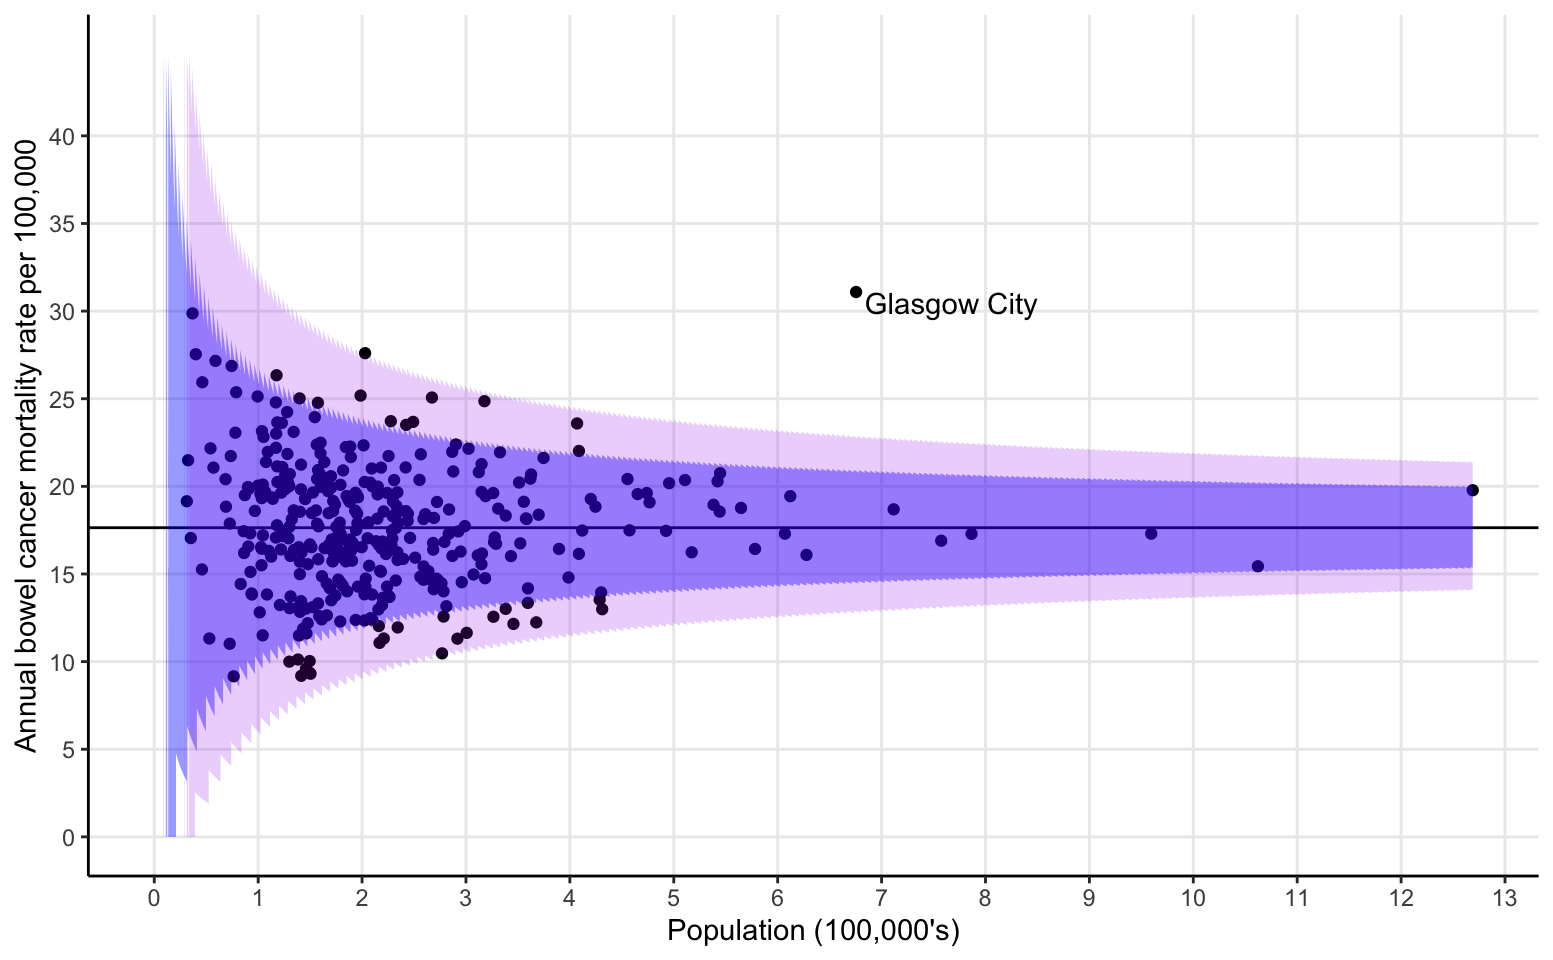
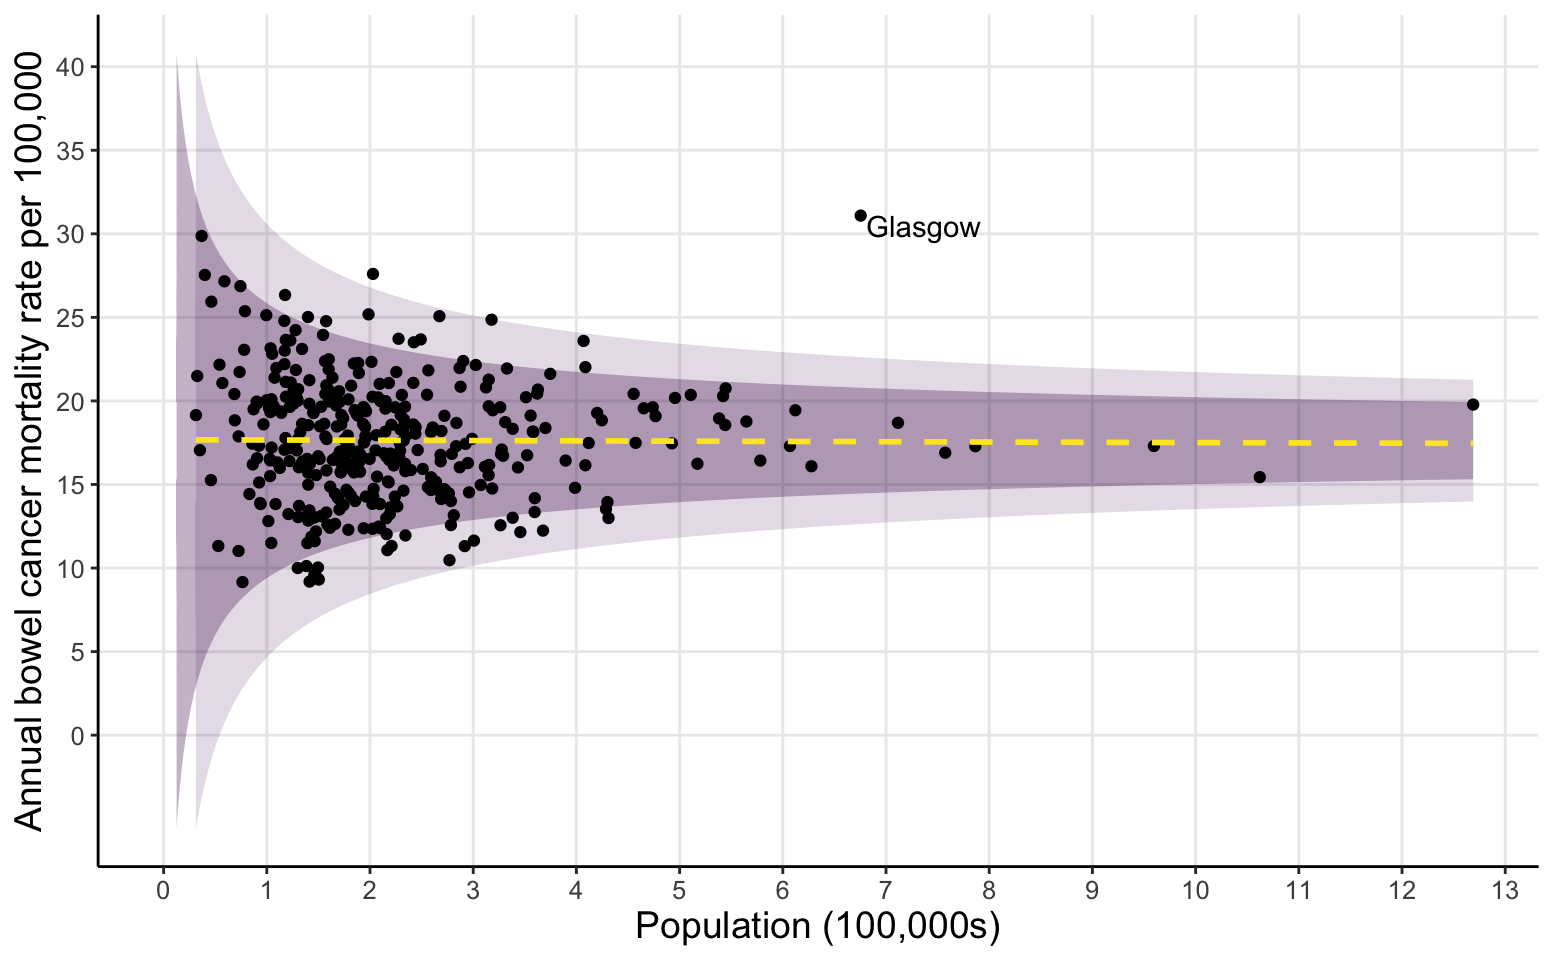
2nd draft

diff --git a/public/posts/slow_thinking_small_samples/index.html b/public/posts/slow_thinking_small_samples/index.html
@@ -110,7 +110,7 @@
             </span>
             <span class="reading-time">
               <i class="fas fa-clock"></i>
-              6 minutes read
+              7 minutes read
             </span>
           </div>
           
@@ -152,9 +152,9 @@ div#TOC li {
 <blockquote>
 <p>Counties that are in the highest 10% for kidney cancer incidence tend to be rural and located in the Midwest, the South, and the West.</p>
 </blockquote>
-<p>Again, you might have been tempted to appeal to the rural lifestyle for an explanation. But this time, to suggest that the high cancer rates might be due to “limited access to good medical care, a high-fat diet, too much alcohol, and too much tobacco.”</p>
+<p>Again, you might have been tempted to appeal to the rural lifestyle for an explanation. But, this time, to suggest that the high cancer rates might be due to “limited access to good medical care, a high-fat diet, too much alcohol, and too much tobacco.”</p>
 <p>Clearly, something is off with our gut instinct here. The rural lifestyle can’t simultaneously explain both high and low incidence of kidney cancer.</p>
-<p>This pair of facts illustrate the concept of <strong>sample size neglect</strong>, a failure to acccurately account for sample size when making inferences from data. This failing stems from the representativeness heuristic. It manifests when people don’t know the process by which the data is being generated (in this case what causes high or low rates of kidney cancer). The outcome is that people tend to believe a small sample will be more representative of the true phenomenon than statistical theory predicts it actually will be.</p>
+<p>This pair of facts illustrate the concept of <strong>sample size neglect</strong>, a failure to acccurately account for sample size when making inferences from data. The outcome is that people tend to believe a small sample will be more representative of the true phenomenon than statistical theory predicts it actually will be.</p>
 <p>So, the key here isn’t the <em>behaviour</em> of people who live in rural areas, it’s the <em>number</em> of people who live in rural areas.</p>
 <div id="small-samples-are-more-extreme" class="section level1">
 <h1><span class="header-section-number">1</span> Small samples are more extreme</h1>
@@ -172,23 +172,22 @@ L&amp;\sim \text{B}(8, 0.5)
 <p>If that was too much maths, then we can run a simulation to get an approximate answer instead. Let’s simulate 1000 days at each hospital and plot the frequencies of the number of boys born per day.</p>
 <p><img src="/posts/slow_thinking_small_samples_files/figure-html/unnamed-chunk-2-1.png" width="776.64" style="display: block; margin: auto;" /></p>
 <p>Adding up the yellow bars shows us that there were 132 single-sex days at Hospital Small and only 9 at Hospital Large. This means that single-sex days occurred roughly 15 times as often at Hospital Small, which isn’t too far away from the exact answer of 16.</p>
-<p>So, we’ve established that a smaller sample size (4 rather than 8 in our example) generates extreme results (single-sex days) more often than we naturally expect. This means our fast thinking can lead us astray a little and many of us tend to underestimate just how variable small samples will be. What can we do about it? How can we remind ourselves that we should expect small samples to be more extreme when analysing data?</p>
+<p>So, we’ve established that a smaller sample size (4 rather than 8 in our example) generates extreme results (single-sex days) more often than we might naturally expect. This means our fast thinking can lead us astray a little and many of us tend to underestimate just how variable small samples will be. What can we do about it? How can we remind ourselves that we should expect small samples to be more extreme when analysing data?</p>
 </div>
 <div id="visualise-the-expected-variance" class="section level1">
 <h1><span class="header-section-number">2</span> Visualise the expected variance</h1>
 <p>I recently came across an example from the UK in a similar vein to the one discussed by Wainer and Zwerling. In <em>The Art of Statistics</em> David Spiegelhalter discusses a piece of analysis by Paul Barden. Barden saw a BBC news report headlined “3-Fold Variation in Bowel Cancer Rate” and decided to dig a little deeper (discussed on his own blog <a href="https://pb204.blogspot.com/2011/09/im-grateful-to-david-spiegelhalter-of.html">here</a>).</p>
 <p>It turns out the headline is true. In fact, there’s more than 3-fold variation. The highest mortality rate of 31 in 100,000 in Glasgow is 3.39 times that of the minimum rate found in The Borough of Rossendale.</p>
-<p>But, as we established above, small samples generate extreme results more often. So, we need to incorporate population size in our analysis. The easiest way to do this is with a ‘funnel plot’ which visualises the mean and expected variation from this mean given sample size.</p>
+<p>But, as we established above, small samples generate extreme results more often. So, we need to incorporate the idea that the cancer rate will be more variable in areas with smaller population sizes in our analysis. The easiest way to do this is with a ‘funnel plot’ which visualises the expected variation at each sample size given the overall population mean.</p>
 <p><img src="/posts/slow_thinking_small_samples_files/figure-html/unnamed-chunk-5-1.png" width="776.64" style="display: block; margin: auto;" /></p>
-<p>Sentence interpreting graph.</p>
-<p>We have a suspiciously good match to the expected variability with the vast majority of our datapoints falling within the bounds of the confidence intervals (Glasgow is the only apparent outlier). This suggests that there likely isn’t anything more interesting going on in general than in our simulation of the two hospitals above. Perhaps the headline should’ve instead read, “Variation in Bowel Cancer Rate About Right”.</p>
+<p>The dashed yellow line represents a simple linear model of cancer rate as a function of population size. The fact that it’s virtually horizontal suggests there’s no relationship. The dark and light purple bands represent 95% and 99.8% confidence intervals respectively. They visualise the variation we expect at each population size simply as a statistical inevitability. We can see that the vast majority of the datapoints fall within these bounds, with Glasgow being the only true outlier. Taken together, this suggests that there likely isn’t anything more interesting going on here than in our simulation of the two hospitals above. Perhaps the headline should’ve instead read, “Variation in Bowel Cancer Rate About Right”.</p>
 </div>
 <div id="stats-as-slow-thinking" class="section level1">
 <h1><span class="header-section-number">3</span> Stats as slow thinking</h1>
 <p>The metaphor of two modes of thinking, one fast and intuitive but prone to some predictable mistakes and the other slow and deliberate but sometimes hard to engage, has become fairly mainstream since Kahneman’s <em>Thinking, Fast and Slow</em> and the popularisation of behavioural economics. This metaphor is often used when discussing the ‘mistakes’ people are susceptible to. However, accepting the fallibility of our own reasoning is just the start of good decision-making, not an end in itself.</p>
-<p>The next step is to consider just what kind of slow thinking we should employ in a given situation.The simplest option might be a pros and cons list, or we could use an improper linear model if we want to get a little more sophisticated. However, often the slow thinking required is formal statistical analysis.</p>
-<p>This is where my interest in behavioural economics meets my interest in data science. To me, data science can be cast as painfully slow thought involving taking the right care to clean and format the data, choosing an appropriate method, checking statistical assumptions, testing the sensitivity of your results, and ensuring you aren’t deluding yourself with your interpretation.</p>
-<p>Particularly when making large scale policy decisions, engaging in such painfully slow thinking is crucial. If you don’t, then you run the risk of misattributing run-of-the-mill statistical variation to an incorrect, but compelling, narrative like the wonders (or horrors) of the rural lifestyle. For example, Bill &amp; Melinda Gates Foundation example of it gone wrong.</p>
+<p>The next step is to consider just what kind of slow thinking we should employ in a given situation. The simplest option might be a pros and cons list, or we could use an improper linear model if we want to get a little more fancy. Often, however, these won’t suffice and the slow thinking required is formal statistical analysis.</p>
+<p>This is where my interest in behavioural economics meets my interest in data science. To me, a useful way of framing the role of data science is as painfully slow thinking. It requires taking the right care to clean and format the data, choosing an appropriate method, checking the assumptions are valid, testing the sensitivity of your results, and ensuring you aren’t deluding yourself with your interpretation.</p>
+<p>Particularly when making large scale policy decisions, engaging in such painfully slow thinking is crucial. If you don’t, then you run the risk of misattributing run-of-the-mill statistical variation to an incorrect, but compelling, narrative like the wonders (and horrors) of the rural lifestyle. For example, the Wainer and Zwerling article I began this post with focused on a $1.7 billion investment by the Bill &amp; Melinda Gates foundation made to follow up on research on what makes schools successful. One apparent finding in such research is that amongst the most successful schools, small schools are overrepresented. This led the foundation along with the U.S Department of Education Smaller Learning Communities Program to make substantial investment in the creation of smaller schools. It’s easy to construct a compelling narrative to explain why small schools cause better educational outcomes, perhaps appealing to there being more personal attention or individual encouragement for each student. However, as Wainer and Zwerling point out, small schools are also overrepresented when you look at the worst schools. Why? Because, please remember this mantra if you ever get an important job that affects millions of people’s lives, small samples produce extreme results more often.</p>
 </div>
 
       </div>

diff --git a/content/posts/slow_thinking_small_samples.html b/content/posts/slow_thinking_small_samples.html
@@ -40,9 +40,9 @@ div#TOC li {
 <blockquote>
 <p>Counties that are in the highest 10% for kidney cancer incidence tend to be rural and located in the Midwest, the South, and the West.</p>
 </blockquote>
-<p>Again, you might have been tempted to appeal to the rural lifestyle for an explanation. But this time, to suggest that the high cancer rates might be due to “limited access to good medical care, a high-fat diet, too much alcohol, and too much tobacco.”</p>
+<p>Again, you might have been tempted to appeal to the rural lifestyle for an explanation. But, this time, to suggest that the high cancer rates might be due to “limited access to good medical care, a high-fat diet, too much alcohol, and too much tobacco.”</p>
 <p>Clearly, something is off with our gut instinct here. The rural lifestyle can’t simultaneously explain both high and low incidence of kidney cancer.</p>
-<p>This pair of facts illustrate the concept of <strong>sample size neglect</strong>, a failure to acccurately account for sample size when making inferences from data. This failing stems from the representativeness heuristic. It manifests when people don’t know the process by which the data is being generated (in this case what causes high or low rates of kidney cancer). The outcome is that people tend to believe a small sample will be more representative of the true phenomenon than statistical theory predicts it actually will be.</p>
+<p>This pair of facts illustrate the concept of <strong>sample size neglect</strong>, a failure to acccurately account for sample size when making inferences from data. The outcome is that people tend to believe a small sample will be more representative of the true phenomenon than statistical theory predicts it actually will be.</p>
 <p>So, the key here isn’t the <em>behaviour</em> of people who live in rural areas, it’s the <em>number</em> of people who live in rural areas.</p>
 <div id="small-samples-are-more-extreme" class="section level1">
 <h1><span class="header-section-number">1</span> Small samples are more extreme</h1>
@@ -60,21 +60,20 @@ L&amp;\sim \text{B}(8, 0.5)
 <p>If that was too much maths, then we can run a simulation to get an approximate answer instead. Let’s simulate 1000 days at each hospital and plot the frequencies of the number of boys born per day.</p>
 <p><img src="/posts/slow_thinking_small_samples_files/figure-html/unnamed-chunk-2-1.png" width="776.64" style="display: block; margin: auto;" /></p>
 <p>Adding up the yellow bars shows us that there were 132 single-sex days at Hospital Small and only 9 at Hospital Large. This means that single-sex days occurred roughly 15 times as often at Hospital Small, which isn’t too far away from the exact answer of 16.</p>
-<p>So, we’ve established that a smaller sample size (4 rather than 8 in our example) generates extreme results (single-sex days) more often than we naturally expect. This means our fast thinking can lead us astray a little and many of us tend to underestimate just how variable small samples will be. What can we do about it? How can we remind ourselves that we should expect small samples to be more extreme when analysing data?</p>
+<p>So, we’ve established that a smaller sample size (4 rather than 8 in our example) generates extreme results (single-sex days) more often than we might naturally expect. This means our fast thinking can lead us astray a little and many of us tend to underestimate just how variable small samples will be. What can we do about it? How can we remind ourselves that we should expect small samples to be more extreme when analysing data?</p>
 </div>
 <div id="visualise-the-expected-variance" class="section level1">
 <h1><span class="header-section-number">2</span> Visualise the expected variance</h1>
 <p>I recently came across an example from the UK in a similar vein to the one discussed by Wainer and Zwerling. In <em>The Art of Statistics</em> David Spiegelhalter discusses a piece of analysis by Paul Barden. Barden saw a BBC news report headlined “3-Fold Variation in Bowel Cancer Rate” and decided to dig a little deeper (discussed on his own blog <a href="https://pb204.blogspot.com/2011/09/im-grateful-to-david-spiegelhalter-of.html">here</a>).</p>
 <p>It turns out the headline is true. In fact, there’s more than 3-fold variation. The highest mortality rate of 31 in 100,000 in Glasgow is 3.39 times that of the minimum rate found in The Borough of Rossendale.</p>
-<p>But, as we established above, small samples generate extreme results more often. So, we need to incorporate population size in our analysis. The easiest way to do this is with a ‘funnel plot’ which visualises the mean and expected variation from this mean given sample size.</p>
+<p>But, as we established above, small samples generate extreme results more often. So, we need to incorporate the idea that the cancer rate will be more variable in areas with smaller population sizes in our analysis. The easiest way to do this is with a ‘funnel plot’ which visualises the expected variation at each sample size given the overall population mean.</p>
 <p><img src="/posts/slow_thinking_small_samples_files/figure-html/unnamed-chunk-5-1.png" width="776.64" style="display: block; margin: auto;" /></p>
-<p>Sentence interpreting graph.</p>
-<p>We have a suspiciously good match to the expected variability with the vast majority of our datapoints falling within the bounds of the confidence intervals (Glasgow is the only apparent outlier). This suggests that there likely isn’t anything more interesting going on in general than in our simulation of the two hospitals above. Perhaps the headline should’ve instead read, “Variation in Bowel Cancer Rate About Right”.</p>
+<p>The dashed yellow line represents a simple linear model of cancer rate as a function of population size. The fact that it’s virtually horizontal suggests there’s no relationship. The dark and light purple bands represent 95% and 99.8% confidence intervals respectively. They visualise the variation we expect at each population size simply as a statistical inevitability. We can see that the vast majority of the datapoints fall within these bounds, with Glasgow being the only true outlier. Taken together, this suggests that there likely isn’t anything more interesting going on here than in our simulation of the two hospitals above. Perhaps the headline should’ve instead read, “Variation in Bowel Cancer Rate About Right”.</p>
 </div>
 <div id="stats-as-slow-thinking" class="section level1">
 <h1><span class="header-section-number">3</span> Stats as slow thinking</h1>
 <p>The metaphor of two modes of thinking, one fast and intuitive but prone to some predictable mistakes and the other slow and deliberate but sometimes hard to engage, has become fairly mainstream since Kahneman’s <em>Thinking, Fast and Slow</em> and the popularisation of behavioural economics. This metaphor is often used when discussing the ‘mistakes’ people are susceptible to. However, accepting the fallibility of our own reasoning is just the start of good decision-making, not an end in itself.</p>
-<p>The next step is to consider just what kind of slow thinking we should employ in a given situation.The simplest option might be a pros and cons list, or we could use an improper linear model if we want to get a little more sophisticated. However, often the slow thinking required is formal statistical analysis.</p>
-<p>This is where my interest in behavioural economics meets my interest in data science. To me, data science can be cast as painfully slow thought involving taking the right care to clean and format the data, choosing an appropriate method, checking statistical assumptions, testing the sensitivity of your results, and ensuring you aren’t deluding yourself with your interpretation.</p>
-<p>Particularly when making large scale policy decisions, engaging in such painfully slow thinking is crucial. If you don’t, then you run the risk of misattributing run-of-the-mill statistical variation to an incorrect, but compelling, narrative like the wonders (or horrors) of the rural lifestyle. For example, Bill &amp; Melinda Gates Foundation example of it gone wrong.</p>
+<p>The next step is to consider just what kind of slow thinking we should employ in a given situation. The simplest option might be a pros and cons list, or we could use an improper linear model if we want to get a little more fancy. Often, however, these won’t suffice and the slow thinking required is formal statistical analysis.</p>
+<p>This is where my interest in behavioural economics meets my interest in data science. To me, a useful way of framing the role of data science is as painfully slow thinking. It requires taking the right care to clean and format the data, choosing an appropriate method, checking the assumptions are valid, testing the sensitivity of your results, and ensuring you aren’t deluding yourself with your interpretation.</p>
+<p>Particularly when making large scale policy decisions, engaging in such painfully slow thinking is crucial. If you don’t, then you run the risk of misattributing run-of-the-mill statistical variation to an incorrect, but compelling, narrative like the wonders (and horrors) of the rural lifestyle. For example, the Wainer and Zwerling article I began this post with focused on a $1.7 billion investment by the Bill &amp; Melinda Gates foundation made to follow up on research on what makes schools successful. One apparent finding in such research is that amongst the most successful schools, small schools are overrepresented. This led the foundation along with the U.S Department of Education Smaller Learning Communities Program to make substantial investment in the creation of smaller schools. It’s easy to construct a compelling narrative to explain why small schools cause better educational outcomes, perhaps appealing to there being more personal attention or individual encouragement for each student. However, as Wainer and Zwerling point out, small schools are also overrepresented when you look at the worst schools. Why? Because, please remember this mantra if you ever get an important job that affects millions of people’s lives, small samples produce extreme results more often.</p>
 </div>
